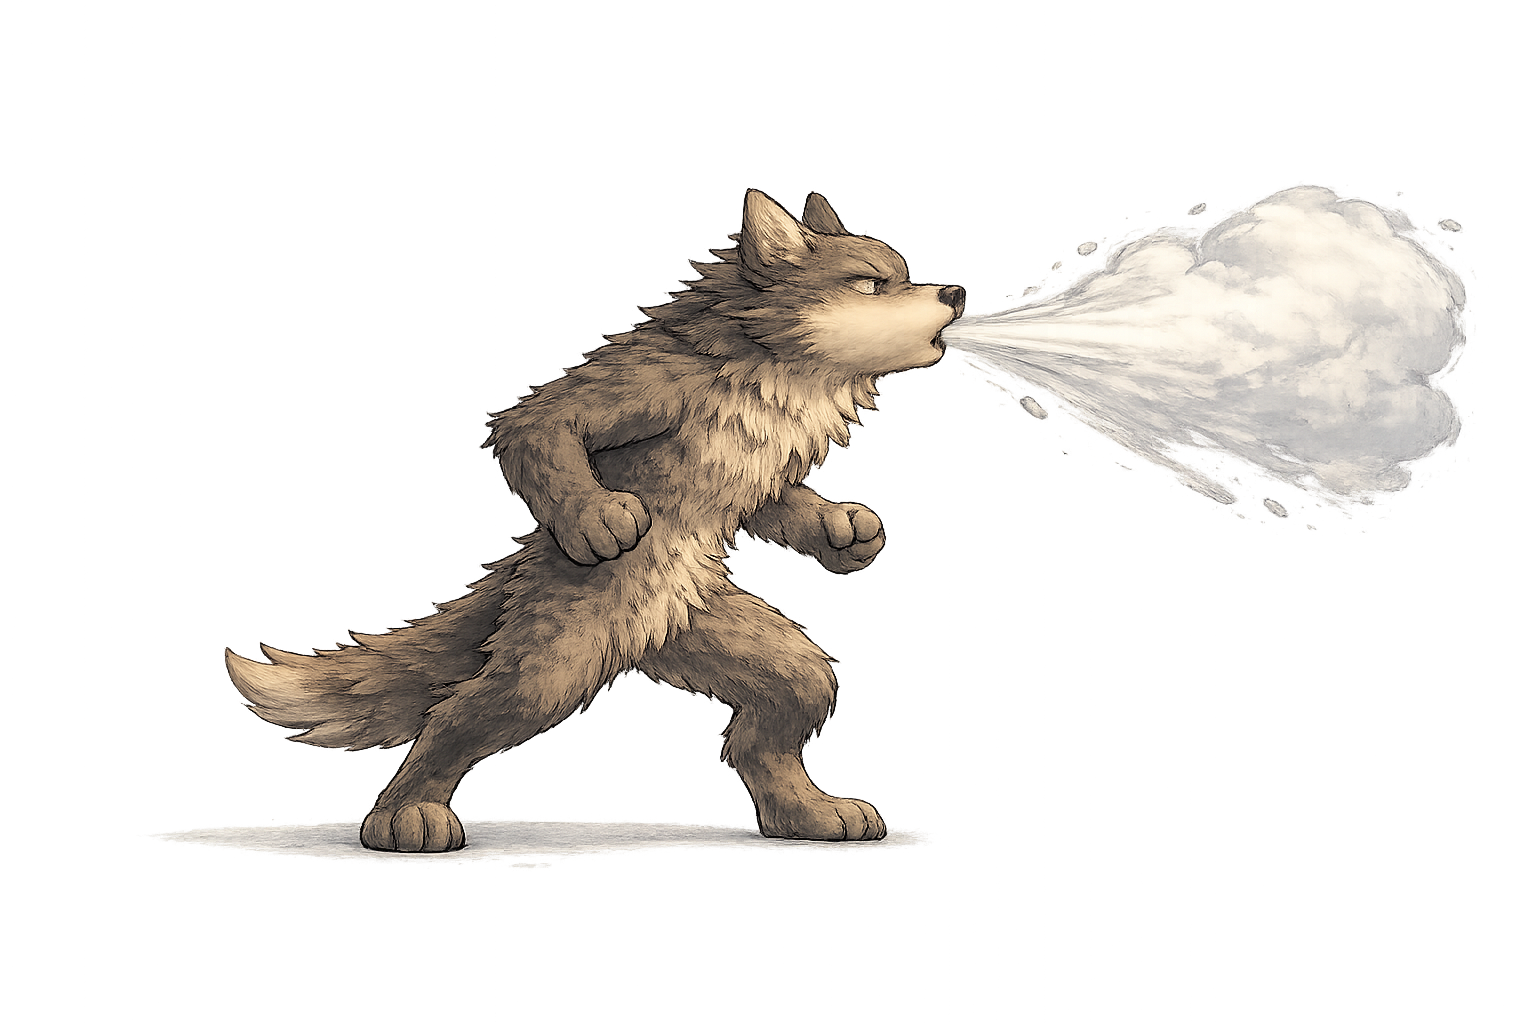
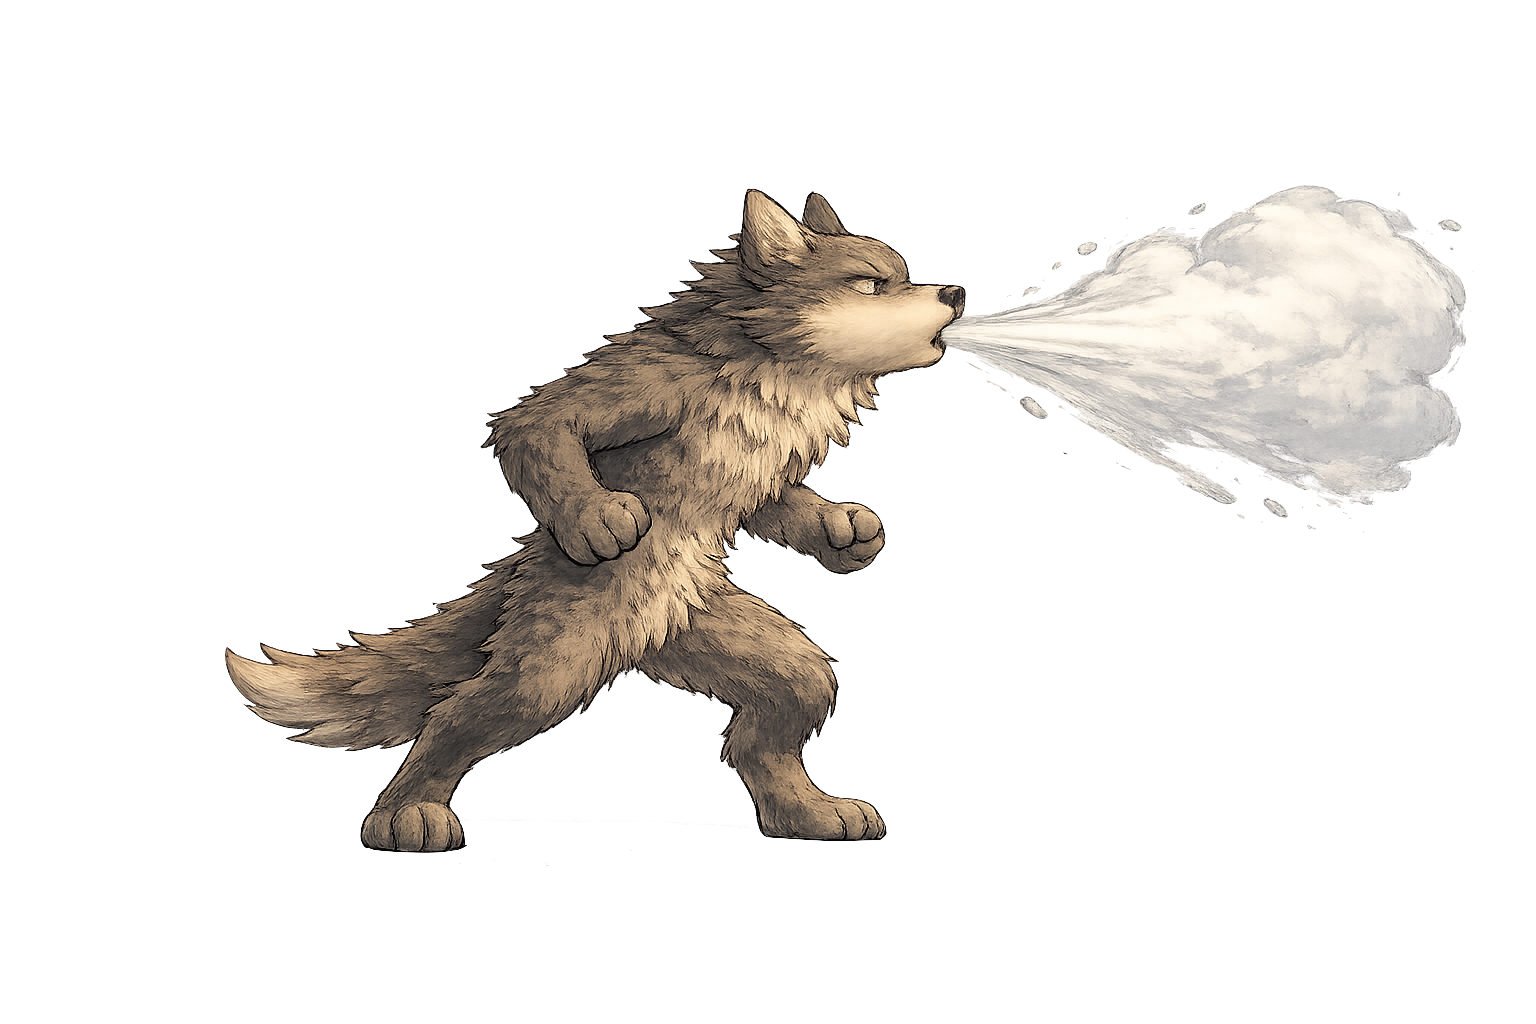
section07

Changed region(s): [[0.0938, 0.7812, 0.5938, 0.8438]]

diff --git a/src/components/sections/Section07.tsx b/src/components/sections/Section07.tsx
@@ -1,8 +1,49 @@
 "use client";
 
+import { useEffect, useRef, useState } from "react";
+
 export default function Section07() {
+  const sectionRef = useRef<HTMLElement | null>(null);
+  const destroyMotionTimeoutRef = useRef<ReturnType<typeof setTimeout> | null>(null);
+  const [wolfVisible, setWolfVisible] = useState(false);
+  const [isBlowing, setIsBlowing] = useState(false);
+  const [houseDestroyMotion, setHouseDestroyMotion] = useState(false);
+
+  useEffect(() => {
+    const section = sectionRef.current;
+    if (!section) return;
+
+    const observer = new IntersectionObserver(
+      ([entry]) => {
+        if (entry.isIntersecting) {
+          setWolfVisible(true);
+          observer.disconnect();
+        }
+      },
+      { threshold: 0.45 },
+    );
+
+    observer.observe(section);
+    return () => observer.disconnect();
+  }, []);
+
+  useEffect(() => {
+    return () => {
+      if (destroyMotionTimeoutRef.current) clearTimeout(destroyMotionTimeoutRef.current);
+    };
+  }, []);
+
+  const handleSceneClick = () => {
+    if (destroyMotionTimeoutRef.current) clearTimeout(destroyMotionTimeoutRef.current);
+    if (!isBlowing) setIsBlowing(true);
+    setHouseDestroyMotion(true);
+    destroyMotionTimeoutRef.current = setTimeout(() => {
+      setHouseDestroyMotion(false);
+    }, 620);
+  };
+
   return (
-    <section className="section section--07">
+    <section ref={sectionRef} className="section section--07">
       <div
         className="section-bg"
         style={{
@@ -10,10 +51,31 @@ export default function Section07() {
         }}
         aria-hidden="true"
       />
-      <div className="section-content section--07-content" role="group" aria-label="Escena 7">
+      <div
+        className="section-content section--07-content section--07-content--interactive"
+        role="group"
+        aria-label="Escena 7"
+        onClick={handleSceneClick}
+      >
+        <div className={`section--07-wolf-stage${wolfVisible ? " section--07-wolf-stage--visible" : ""}`}>
+          <img
+            className={`section--07-wolf-evil${isBlowing ? " section--07-wolf-evil--hidden" : ""}`}
+            src="/img/Section07/evil_wolf.png"
+            alt="Lobo feroz acercandose"
+            draggable={false}
+          />
+          <img
+            className={`section--07-wolf-blowing${isBlowing ? " section--07-wolf-blowing--visible" : ""}`}
+            src="/img/Section07/wolf_blowing.png"
+            alt="Lobo soplando"
+            draggable={false}
+          />
+        </div>
         <img
-          className="section--07-house"
-          src="/img/Section07/straw_house.png"
+          className={`section--07-house${isBlowing ? " section--07-house--destroyed" : ""}${
+            houseDestroyMotion ? " section--07-house--impact" : ""
+          }`}
+          src={isBlowing ? "/img/Section07/destroyed_house.png" : "/img/Section07/straw_house.png"}
           alt="Casa de paja"
           draggable={false}
         />

diff --git a/src/app/globals.css b/src/app/globals.css
@@ -458,6 +458,54 @@ body {
   padding: 0;
 }
 
+.section--07-content--interactive {
+  cursor: pointer;
+}
+
+.section--07-wolf-stage {
+  position: absolute;
+  left: 4vw;
+  bottom: 20vh;
+  width: clamp(400px, 46vw, 680px);
+  height: auto;
+  transform: translateX(calc(-100% - 10vw));
+  user-select: none;
+  pointer-events: none;
+  z-index: 2;
+}
+
+.section--07-wolf-stage--visible {
+  animation: wolf-enter-left 1200ms ease-out forwards;
+}
+
+.section--07-wolf-evil,
+.section--07-wolf-blowing {
+  display: block;
+  width: 100%;
+  height: auto;
+  user-select: none;
+}
+
+.section--07-wolf-evil {
+  opacity: 1;
+  transition: opacity 360ms ease;
+}
+
+.section--07-wolf-evil--hidden {
+  opacity: 0;
+}
+
+.section--07-wolf-blowing {
+  position: absolute;
+  inset: 0;
+  opacity: 0;
+  transition: opacity 420ms ease;
+}
+
+.section--07-wolf-blowing--visible {
+  opacity: 1;
+}
+
 .section--07-house {
   position: absolute;
   right: 16vw;
@@ -467,6 +515,16 @@ body {
   transform: translateY(-50%);
   user-select: none;
   pointer-events: none;
+}
+
+.section--07-house--destroyed {
+  --section07-house-destroy-scale: 1.58;
+  filter: saturate(0.95) contrast(1.03);
+  transform: translateY(-50%) scale(var(--section07-house-destroy-scale));
+}
+
+.section--07-house--impact {
+  animation: house-destroy-impact 620ms cubic-bezier(0.2, 0.85, 0.25, 1) both;
 }
 
 .section--04-build-trigger {
@@ -745,6 +803,12 @@ body {
     left: -36%;
   }
 
+  .section--07-wolf-stage {
+    left: 3vw;
+    bottom: 18vh;
+    width: clamp(340px, 46vw, 560px);
+  }
+
   .section--07-house {
     right: 12vw;
     width: clamp(300px, 44vw, 560px);
@@ -852,6 +916,12 @@ body {
     right: -50%;
     bottom: -51%;
     left: -50%;
+  }
+
+  .section--07-wolf-stage {
+    left: -4vw;
+    bottom: 22vh;
+    width: clamp(280px, 72vw, 500px);
   }
 
   .section--07-house {
@@ -980,5 +1050,32 @@ body {
   }
   100% {
     transform: rotate(0deg);
+  }
+}
+
+@keyframes house-destroy-impact {
+  0% {
+    transform: translateY(-50%) translateX(0) rotate(0deg)
+      scale(var(--section07-house-destroy-scale, 1.34));
+  }
+  18% {
+    transform: translateY(-50%) translateX(-1.5vw) rotate(-2.2deg)
+      scale(var(--section07-house-destroy-scale, 1.34));
+  }
+  36% {
+    transform: translateY(-50%) translateX(1.3vw) rotate(2deg)
+      scale(var(--section07-house-destroy-scale, 1.34));
+  }
+  54% {
+    transform: translateY(-50%) translateX(-1vw) rotate(-1.5deg)
+      scale(var(--section07-house-destroy-scale, 1.34));
+  }
+  72% {
+    transform: translateY(-50%) translateX(0.7vw) rotate(1.2deg)
+      scale(var(--section07-house-destroy-scale, 1.34));
+  }
+  100% {
+    transform: translateY(-50%) translateX(0) rotate(0deg)
+      scale(var(--section07-house-destroy-scale, 1.34));
   }
 }

diff --git a/src/app/layout.tsx b/src/app/layout.tsx
@@ -12,8 +12,8 @@ export default function RootLayout({
   children: React.ReactNode;
 }) {
   return (
-    <html lang="es">
-      <body>{children}</body>
+    <html lang="es" suppressHydrationWarning>
+      <body suppressHydrationWarning>{children}</body>
     </html>
   );
 }
